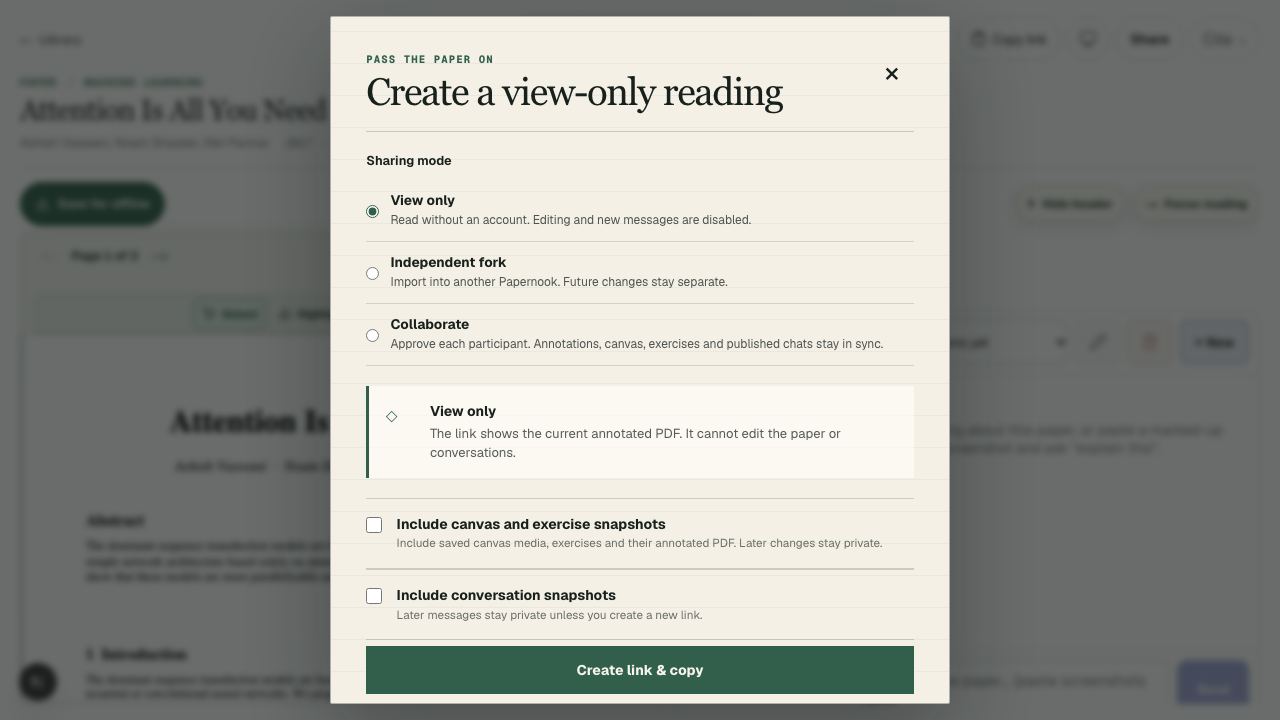
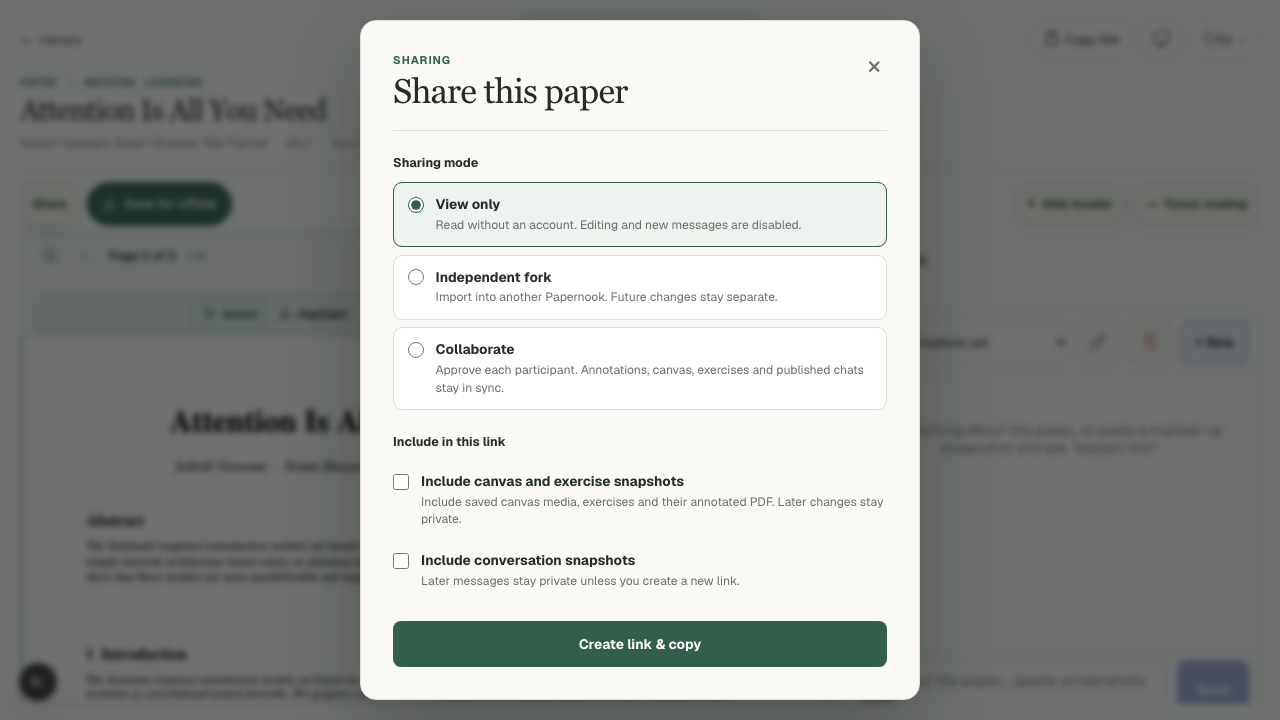
sharing: update dialog browser coverage
Problem: Existing browser journeys and the desktop screenshot still expected the previous sharing dialog.

Approach: Update the accessible heading assertions and regenerate the desktop image.

Result: Browser journeys reflect the current sharing interface.

diff --git a/tests/e2e/docs-screenshots.spec.ts b/tests/e2e/docs-screenshots.spec.ts
@@ -427,7 +427,7 @@ test.describe.serial("documentation journeys and screenshots", () => {
     await page.getByText("Attention Is All You Need").click();
     await page.getByRole("button", { name: "Share", exact: true }).click();
     await expect(
-      page.getByRole("heading", { name: "Create a view-only reading" }),
+      page.getByRole("heading", { name: "Share this paper" }),
     ).toBeVisible();
     await expect(
       page.getByRole("checkbox", { name: /Include conversation snapshots/ }),

diff --git a/tests/e2e/chat-input.spec.ts b/tests/e2e/chat-input.spec.ts
@@ -287,7 +287,7 @@ test("sharing remains available when the paper header is hidden", async ({
   await page.getByRole("button", { name: "Hide header" }).click();
   await page.getByRole("button", { name: "Share", exact: true }).click();
   await expect(
-    page.getByRole("dialog", { name: "Create a view-only reading" }),
+    page.getByRole("dialog", { name: "Share this paper" }),
   ).toBeVisible();
 });
 
